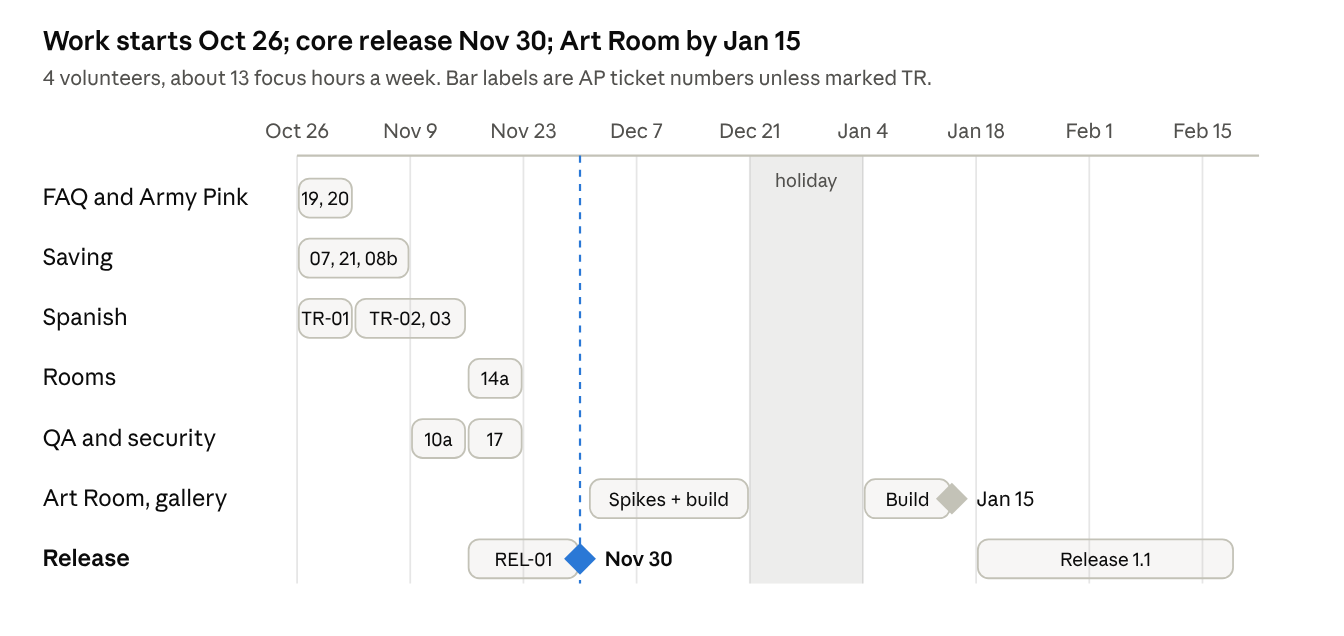
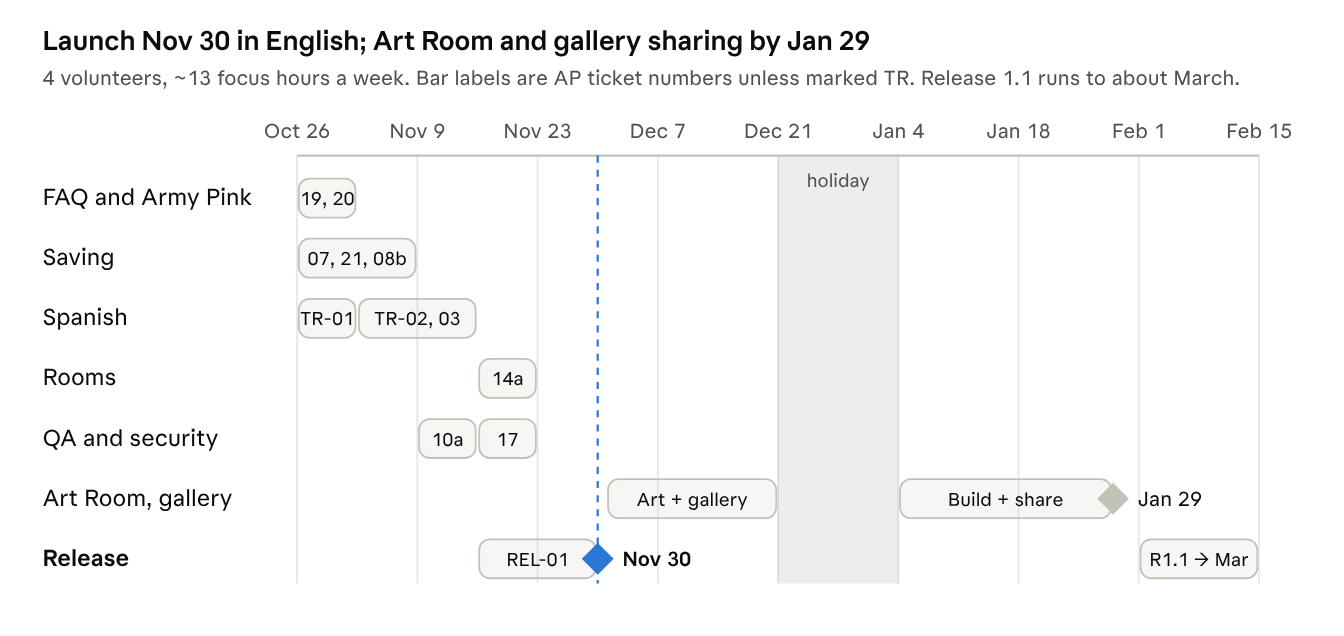
Update technical plan with the founder's decisions of 24 Nov
Launch 30 Nov in English; Art Room and gallery sharing by 29 Jan 2027;
Release 1.1 about March; analytics built; D4 decided; checklists updated.

diff --git a/docs/technical-plan.md b/docs/technical-plan.md
@@ -1,21 +1,27 @@
 # Army Pink Wellness Portal — Technical Plan
 
-_Last updated 26 October 2026. Developers: start with the [Developer Onboarding guide](developer-onboarding.md)._
+_Last updated 24 November 2026. Developers: start with the [Developer Onboarding guide](developer-onboarding.md)._
 
 ## Executive summary
 
 The Wellness Portal is a free, anonymous website that Army Pink is building for survivors of domestic violence. It releases on **30 November 2026**. Visitors can calm down, reflect, learn, find opportunities and create art without creating an account. Anything they choose to save stays on their own device.
 
-- **Where we are.** The foundation is complete and tested, and 92 automated tests pass. The site builds and runs, and the privacy choice and device-only saving work end to end. Most content is still placeholder text.
-- **How it is built.** The Portal is a static website with no backend server. That one decision removes the biggest privacy risk, a central store of survivors' data, and keeps the project cheap and simple for a volunteer team to run. Section 4 explains why.
-- **What happens next.** Team work starts **this week, Monday 26 October**. Five weeks remain before the 30 November launch, with Thanksgiving week at half capacity.
-- **What the founder's brief adds.** The founder's final brief of 26 October requires a 9-question FAQ, an optional About Army Pink link, consistent privacy wording and readable text files in the download. That is about 11 hours of new work, scheduled before launch. It also asks for sharing to an Anonymous Survivor Art Gallery, which needs a server; see decision D7.
-- **What changed in scope.** The team is 4 volunteer developers giving about 5 hours a week, roughly 13 focused hours in total. That covers about 55 hours before launch. To make room, behind-the-scenes refactoring (moving content to JSON, shared components) and other polish move to **Release 1.1, targeted for 19 February 2027**. Visitors won't notice these changes. The full Art Room stays targeted for 15 January 2027, and the basic canvas ships at launch.
-- **What we need from leadership.**
-  - a decision on gallery sharing (D7) and on the Esc wording (D4)
-  - agreement to launch on 30 November with the deferred items listed in section 9
-  - an owner for real content and for Spanish review
-  - approval of the wording listed in section 11
+- **Where we are (24 November).** The founder's FAQ, saving terms, About Army Pink link, ZIP text files, typed translations and My Saved Items states are merged to `main`. Her decisions of 24 November are in review as PR #59. **Nothing has been deployed to Vercel yet.**
+- **Launch on 30 November, in English.** Spanish is shown as "Coming Soon" until a qualified, fluent Spanish speaker has reviewed it.
+- **What still has to happen before launch:**
+  - merge PR #59
+  - first Vercel deployment and rollback runbook (AP-17)
+  - release checklist with the founder's QA checks (REL-01a)
+  - final check and launch (REL-01b)
+- **Analytics.** Aggregate Vercel Web Analytics is built to the founder's specification and switches on with the first deployment. No cookies, no persistent identifiers, no content.
+- **Gallery sharing.** The founder wants the full Anonymous Survivor Art Gallery. It needs a small server-side service and moderation, about 43 developer hours. It is planned with the full Art Room for **29 January 2027**, if the founder approves the service (D7) by 5 December and names a moderator.
+- **Release 1.1** (behind-the-scenes tidying) moves to about March 2027.
+- **How it is built.** The Portal is a static website with no backend server, which removes the biggest privacy risk: a central store of survivors' data. Section 4 explains why. Gallery sharing will be the only exception, and only for artwork a visitor chooses to share.
+- **What we need from leadership:**
+  - D7 decision by 5 December
+  - a named gallery moderator
+  - a Spanish reviewer
+  - a content owner
 
 ## About this document
 
@@ -72,6 +78,32 @@ The founder's _Final Developer Brief: FAQ, Privacy, Safety & Army Pink Website C
 - **Simulated PIN lock.** The Journals and Toolkit show a pretend PIN lock, labelled "Simulated".
   - _Recommended:_ remove it for launch, since the brief asks for prototype-only features to go.
 
+## Founder's response of 24 November: decisions
+
+The founder answered every open question. Her rule stays the same: safety, privacy and transparency are non-negotiable, and every sentence a visitor reads must match what the Portal really does. The full record, the analytics check and the gallery estimate are in `docs/decisions/founder-response-2026-11-24.md`.
+
+| Topic                       | Founder's decision                                                                           | Status                                                      |
+| --------------------------- | -------------------------------------------------------------------------------------------- | ----------------------------------------------------------- |
+| Esc key (D4)                | Esc activates Quick Exit everywhere, even while typing, drawing or with a pop-up open        | Built in PR #59                                             |
+| Gallery sharing (D7)        | Build the full sharing experience; don't treat it as a future feature                        | Estimated: about 43 h, target 29 Jan 2027 with the Art Room |
+| Analytics                   | Aggregate Vercel Web Analytics and custom events, per the original specification             | Built in PR #59; active once deployed                       |
+| armypink.org                | Make it a clickable link                                                                     | Built in PR #59                                             |
+| Emergency box under the FAQ | Remove it; the hotline is already in FAQ #4 and #8                                           | Built in PR #59                                             |
+| Saving buttons and wording  | Continue Without Saving, Turn Saving Off and the saving text approved                        | Done (AP-21)                                                |
+| Privacy page                | "Nothing is measured today" replaced with an accurate description of aggregate analytics     | Built in PR #59                                             |
+| Simulated PIN screen        | Remove for launch; real PIN protection may come later                                        | Built in PR #59                                             |
+| Spanish                     | Launch in English; Spanish only after review by a qualified, fluent (ideally native) speaker | Built in PR #59 ("ES · pronto")                             |
+| Quick Exit destination      | Keep weather.com                                                                             | No change                                                   |
+| Turning saving off          | Make clear it does not delete saved items                                                    | In place                                                    |
+
+**What analytics collects.** Page views and a fixed list of events: rooms and resources opened, language choice, saves and deletes, Quick Exit use and technical errors.
+
+- **Never collected:** names, contact details, case information, journal entries, artwork, free text, searches or precise location.
+- **How it's enforced:** an allowlist in the code drops anything else, and query strings are stripped from page addresses.
+- **To confirm:**
+  - custom events need the Vercel Pro plan
+  - Vercel's documentation does not say whether IP addresses are stored
+
 ## 1. Where the project stands
 
 The Portal's foundation was finished and tested on 18 October 2026, about two weeks ahead of the original plan. The first version was a clickable prototype made with Lovable, an AI website builder; the code no longer depends on it.
@@ -116,7 +148,7 @@ The Portal is a static React app with no backend: Vercel serves files, and every
 
 ![Architecture as built: static site, browser-only storage](images/architecture.png)
 
-Pages save only through `SaveActions`. The repository validates every record before writing, and the analytics adapter stays a no-op until the event list is approved.
+Pages save only through `SaveActions`. The repository validates every record before writing, and analytics sends only allowlisted, aggregate events, with no content.
 
 | Layer        | Technology                                                      | Location                                |
 | ------------ | --------------------------------------------------------------- | --------------------------------------- |
@@ -150,11 +182,11 @@ The Portal has no server of its own and no database. Vercel delivers the same fi
 
 **The trade-offs.**
 
-| Trade-off                                     | What it means for visitors and staff                                                   | How the plan handles it                                                            |
-| --------------------------------------------- | -------------------------------------------------------------------------------------- | ---------------------------------------------------------------------------------- |
-| Saved items live in one browser on one device | They don't follow the visitor to another device, and clearing browser data erases them | The privacy screen says this plainly; visitors can download a ZIP copy at any time |
-| Content updates need a code change            | Non-technical staff can't edit pages directly                                          | Content is reviewed through GitHub; a content management system can be added later |
-| Analytics are limited                         | Only anonymous, approved events can be counted                                         | Vercel Web Analytics with an allowlist of event names (AP-12), off until approved  |
+| Trade-off                                     | What it means for visitors and staff                                                   | How the plan handles it                                                                              |
+| --------------------------------------------- | -------------------------------------------------------------------------------------- | ---------------------------------------------------------------------------------------------------- |
+| Saved items live in one browser on one device | They don't follow the visitor to another device, and clearing browser data erases them | The privacy screen says this plainly; visitors can download a ZIP copy at any time                   |
+| Content updates need a code change            | Non-technical staff can't edit pages directly                                          | Content is reviewed through GitHub; a content management system can be added later                   |
+| Analytics are limited                         | Only anonymous, approved events can be counted                                         | Vercel Web Analytics with an allowlist of events, approved and built (24 Nov); aggregate counts only |
 
 **When a backend would be added.** Only if leadership approves a feature that truly needs one, and only after a privacy review. Examples:
 
@@ -168,20 +200,20 @@ The plan then favours a small managed service, such as Supabase or Neon behind V
 
 Six decisions were taken on 18 October and are implemented. Changing one needs a new decision record in `docs/decisions/`.
 
-| ID  | Decision                                                                                               | Why                                                                                             | Still open                                                                      |
-| --- | ------------------------------------------------------------------------------------------------------ | ----------------------------------------------------------------------------------------------- | ------------------------------------------------------------------------------- |
-| D1  | Static SPA on Vercel; no server runtime                                                                | No feature needs a server; the simplest security policy; no beta server framework in production | None                                                                            |
-| D2  | Detach from Lovable now                                                                                | Volunteers need a normal Vite setup they can read and debug                                     | Lovable can still be used for throwaway stakeholder mock-ups, outside this repo |
-| D3  | Export as ZIP: readable HTML, JSON manifest, images                                                    | Readable on any device and still machine-readable for a future re-import                        | Check how phones handle the ZIP during QA                                       |
-| D4  | Esc exits except in dialogs, text fields and the canvas                                                | A stray key press must not lose a survivor's writing                                            | Founder approval of the explanatory copy                                        |
-| D5  | Turning saving off asks "Keep my saved items" or "Delete them now"; delete needs a second confirmation | Makes what happens to existing items explicit                                                   | Founder approval of the dialog copy                                             |
-| D6  | Intro skip links say "Skip intro" and lead to the privacy choice                                       | The privacy choice can never be bypassed                                                        | None                                                                            |
+| ID  | Decision                                                                                                                   | Why                                                                                             | Still open                                                                      |
+| --- | -------------------------------------------------------------------------------------------------------------------------- | ----------------------------------------------------------------------------------------------- | ------------------------------------------------------------------------------- |
+| D1  | Static SPA on Vercel; no server runtime                                                                                    | No feature needs a server; the simplest security policy; no beta server framework in production | None                                                                            |
+| D2  | Detach from Lovable now                                                                                                    | Volunteers need a normal Vite setup they can read and debug                                     | Lovable can still be used for throwaway stakeholder mock-ups, outside this repo |
+| D3  | Export as ZIP: readable HTML, JSON manifest, images                                                                        | Readable on any device and still machine-readable for a future re-import                        | Check how phones handle the ZIP during QA                                       |
+| D4  | Esc exits from everywhere, including text fields, the canvas and dialogs (founder, 24 Nov; replaces the earlier exception) | Leaving safely takes priority over every other page function                                    | Decided 24 Nov                                                                  |
+| D5  | Turning saving off asks "Keep my saved items" or "Delete them now"; delete needs a second confirmation                     | Makes what happens to existing items explicit                                                   | Wording approved 24 Nov                                                         |
+| D6  | Intro skip links say "Skip intro" and lead to the privacy choice                                                           | The privacy choice can never be bypassed                                                        | None                                                                            |
 
-**Proposed on 26 October, awaiting the founder:** D7, gallery sharing through one small managed service after launch. It is the only feature that would send anything off the device. See "Founder's brief of 26 October" above.
+**D7, gallery sharing (in progress).** The founder wants sharing to the Anonymous Survivor Art Gallery built, not dropped. It will be the only feature that sends anything off the device, and only artwork the visitor chooses to share. Proposed: one small managed service, image only, human moderation, a clear consent step and success or failure feedback. The service choice needs her sign-off by 5 December.
 
 ## 6. Spanish translation
 
-Goal for 30 November: every interface string is available in Spanish, and no survivor-facing guidance appears in Spanish until a reviewer approves it. Translation is done by people. Machine translation may only be used to make a first draft, and that draft is always reviewed.
+Founder decision (24 November): the Portal launches in English, with Spanish shown as "Coming Soon". Spanish is switched on only after a qualified, fluent (ideally native) speaker familiar with survivor-support terms has reviewed it. The design below is ready for that moment. Translation is done by people. Machine translation may only be used to make a first draft, and that draft is always reviewed.
 
 **Where it starts.** The prototype has two lookups. `useT()` reads a small keyed dictionary, and `useTx()` uses the English sentence itself as the key into a draft `es.ts`. Using the sentence as the key breaks silently: if someone edits the English, the Spanish disappears. That happened to the intro's Quick Exit line. There is no review status, and nothing reports missing strings.
 
@@ -250,24 +282,24 @@ The founder's brief adds 11 hours of required work, bringing the pre-launch plan
 
 ## 8. Schedule
 
-Team work starts on 26 October, and the core Portal releases on 30 November in English and Spanish. The full Art Room is a separate milestone targeting 15 January 2027. Release 1.1, the behind-the-scenes tidying deferred to make room for the founder's brief, follows by 19 February 2027.
+The core Portal launches on 30 November in English. The full Art Room and gallery sharing follow together, targeting 29 January 2027. Release 1.1, the behind-the-scenes tidying, follows in about March 2027.
 
-![Schedule from 26 Oct: core release 30 Nov, full Art Room by 15 Jan 2027, Release 1.1 by 19 Feb 2027](images/schedule-timeline.png)
+![Schedule: launch 30 Nov in English; Art Room and gallery sharing by 29 Jan 2027; Release 1.1 about March](images/schedule-timeline.png)
 
 Phases run as parallel workstreams rather than in sequence. Week 5 holds only stabilization because of Thanksgiving. At launch the Art Room ships its current three-stage canvas, labelled as an early version, and gallery sharing says it is not available yet.
 
-| Phase                                       | Original dates         | Revised dates (26 Oct)                                     | State           |
-| ------------------------------------------- | ---------------------- | ---------------------------------------------------------- | --------------- |
-| 0 Audit and alignment                       | 19–23 Oct              | 18 Oct; founder's brief reviewed 26 Oct                    | Done            |
-| 1 Shared foundation                         | 26–30 Oct              | 18 Oct                                                     | Done            |
-| 2 Saving MVP                                | 2–6 Nov                | 18 Oct; polish and brief changes in W1–W2                  | Mostly done     |
-| FAQ, About Army Pink, privacy wording (new) | Not planned            | W1–W2                                                      | Planned         |
-| Spanish translation (new)                   | Not planned            | W1–W3                                                      | Planned         |
-| 3 Core experiences                          | 9–13 Nov               | W4 (Recovery Rooms); content refactor moved to Release 1.1 | Planned         |
-| 5 Testing, security, release readiness      | 23–25 Nov              | W3–W4                                                      | Partly in place |
-| 6 Stabilization and release                 | 26–30 Nov              | W5, release 30 Nov                                         | Planned         |
-| Art Room full build and gallery spike       | 23–25 Nov, if feasible | 1 Dec–15 Jan, with a holiday break                         | Moved           |
-| Release 1.1                                 | Not planned            | By 19 Feb 2027                                             | Planned         |
+| Phase                                       | Original dates         | Revised dates (26 Oct)                                        | State           |
+| ------------------------------------------- | ---------------------- | ------------------------------------------------------------- | --------------- |
+| 0 Audit and alignment                       | 19–23 Oct              | 18 Oct; founder's brief reviewed 26 Oct                       | Done            |
+| 1 Shared foundation                         | 26–30 Oct              | 18 Oct                                                        | Done            |
+| 2 Saving MVP                                | 2–6 Nov                | 18 Oct; polish and brief changes in W1–W2                     | Mostly done     |
+| FAQ, About Army Pink, privacy wording (new) | Not planned            | W1–W2                                                         | Planned         |
+| Spanish translation (new)                   | Not planned            | W1–W3                                                         | Planned         |
+| 3 Core experiences                          | 9–13 Nov               | W4 (Recovery Rooms); content refactor moved to Release 1.1    | Planned         |
+| 5 Testing, security, release readiness      | 23–25 Nov              | W3–W4                                                         | Partly in place |
+| 6 Stabilization and release                 | 26–30 Nov              | W5, release 30 Nov                                            | Planned         |
+| Art Room full build and gallery spike       | 23–25 Nov, if feasible | 1 Dec–29 Jan with gallery sharing, holiday break 21 Dec–3 Jan | Moved           |
+| Release 1.1                                 | Not planned            | About March 2027                                              | Planned         |
 
 ## 9. Work backlog
 
@@ -291,7 +323,7 @@ Release scope is 55 developer hours in tickets of 5 hours or less, about 13 hour
 | W4   | REL-01a        | Release checklist, including the founder's QA checklist | All           | 3     | All above  | All 13 founder checks listed with how each is verified                                                                            |
 | W5   | REL-01b        | Stabilization, manual Spanish check and launch          | All           | 5     | REL-01a    | Founder acceptance; release deployed 30 Nov                                                                                       |
 
-**Deferred to Release 1.1 (target 19 February 2027).** These 57 hours are work the launch can do without. Most of it is behind-the-scenes tidying that visitors would not notice, and existing tests already cover the main flows. It is scheduled after the Art Room work.
+**Deferred to Release 1.1 (about March 2027).** These 52 hours are work the launch can do without, mostly behind-the-scenes tidying that visitors would not notice. AP-12 (analytics) is no longer here: it was built on 24 November. They follow the Art Room and gallery work.
 
 | ID       | Ticket                                                                             | Hours | Why it can wait                                                             |
 | -------- | ---------------------------------------------------------------------------------- | ----- | --------------------------------------------------------------------------- |
@@ -299,14 +331,26 @@ Release scope is 55 developer hours in tickets of 5 hours or less, about 13 hour
 | AP-14b   | Calm Room and Journals on shared components                                        | 4     | Both pages already work and save correctly                                  |
 | TR-05    | Automated Spanish layout checks                                                    | 4     | Replaced by a manual Spanish check in REL-01b                               |
 | AP-09    | Remaining security items (dependency pruning, audit)                               | 4     | Strict CSP and headers already in place                                     |
-| AP-12    | Analytics allowlist adapter                                                        | 5     | Analytics stays off until the event list is approved anyway                 |
+| AP-12    | Analytics allowlist adapter                                                        | 5     | Done 24 Nov (PR #59)                                                        |
 | TR-04    | Translator CSV export/import                                                       | 5     | Reviewers can work from the files with a developer's help                   |
 | TR-07    | Spanish fields in content JSON                                                     | 6     | Needs AP-13; content shows in English with a notice until then              |
 | AP-14c   | Decision Support and Toolkit cleanup                                               | 4     | Both pages already work and save correctly                                  |
 | AP-10b   | Browser tests per room                                                             | 3     | The main save flows are already tested                                      |
 | AP-18a/b | Art Room feasibility spike                                                         | 6     | Moves with the Art Room milestone                                           |
 
-**After launch.** December starts with the gallery sharing spike (AP-22 **new**, 4 h) and the Art Room spike (6 h), then the full Art Room build (AP-16, about 30 h). With a holiday break from 21 December to 3 January, the Art Room target stays **15 January 2027**. Gallery sharing is built only after the founder decides D7, with its own estimate from the spike. The other Release 1.1 items follow by 19 February 2027.
+**After launch: Art Room and gallery sharing, target 29 January 2027.** About 79 hours, roughly 6 weeks at 13 hours a week, with a holiday break from 21 December to 3 January.
+
+- Art Room spike (6 h) and full build (AP-16, about 30 h)
+- Gallery sharing (about 43 h):
+  - submission service with privacy safeguards (10 h)
+  - staff moderation screen with sign-in (10 h)
+  - public gallery of approved art (4 h)
+  - consent and feedback in the Art Room (6 h)
+  - security and tests (8 h)
+  - service choice and privacy review (4 h)
+  - wording (1 h)
+
+The target depends on the founder approving D7 by 5 December and naming a moderator.
 
 Week dates (revised 26 October): W1 26 Oct–1 Nov, W2 2–8 Nov, W3 9–15 Nov, W4 16–22 Nov, W5 23–29 Nov (half week).
 
@@ -347,24 +391,28 @@ This is the backlog as plain to-dos. Tick each box when its pull request is merg
 
 **W5 · 23–29 Nov (half week)**
 
-- [ ] **REL-01b** Fix last bugs, check every page in Spanish by hand, get founder sign-off and deploy on 30 November (5 h)
+- [ ] **REL-01b** Fix last bugs, check live analytics requests, get founder sign-off and deploy on 30 November (5 h)
 
 **Founder and leadership, before launch**
 
-- [ ] Decide D4: keep Esc ignored while typing and add "when you aren't typing" to FAQ #3, or make Esc always exit (by W1)
-- [ ] Decide D7: gallery sharing through a small managed service after launch (by W4)
-- [ ] Decide whether the simulated PIN lock is removed for launch (by W2)
-- [ ] Approve the wording in `docs/decisions/copy-pending-approval.md`, including interim FAQ #5 (by W3)
-- [ ] Choose the Quick Exit destination site (by W3)
-- [ ] Name an owner for real content and for Spanish review (by W1)
-- [ ] Agree that the Release 1.1 items can follow after launch (by W1)
+- [x] Decide D4: Esc works everywhere (decided 24 Nov)
+- [ ] Decide D7: service for gallery sharing (by 5 Dec)
+- [ ] Name a gallery moderator (by 5 Dec)
+- [x] Remove the simulated PIN lock for launch (decided 24 Nov)
+- [x] Approve the saving and privacy wording (24 Nov)
+- [x] Quick Exit destination: keep weather.com (24 Nov)
+- [ ] Name a qualified, fluent Spanish reviewer (TR-06)
+- [ ] Name an owner for real content
+- [ ] Choose the Vercel plan: Pro is needed for custom analytics events
 
 **After launch**
 
 - [ ] **AP-22** Gallery sharing spike: service, cost, privacy review, moderation and estimate (early December)
 - [ ] **AP-18a/b** Art Room spike: choose the drawing approach and split the build into 5-hour tickets (early December)
-- [ ] **AP-16** Build the full Art Room experience (December to 15 January 2027)
-- [ ] **Release 1.1**: AP-13a–d, AP-14b, TR-05, AP-09, AP-12, TR-04, TR-07, AP-14c, AP-10b (by 19 February 2027)
+- [ ] **AP-16** Build the full Art Room experience
+- [ ] **Gallery sharing**: submission service, moderation, public gallery, consent flow (with AP-16, by 29 January 2027)
+- [ ] **TR-06 then Spanish on**: native-speaker review, then set `SPANISH_ENABLED` to true
+- [ ] **Release 1.1**: AP-13a–d, AP-14b, TR-05, AP-09, TR-04, TR-07, AP-14c, AP-10b (about March 2027)
 
 ## 10. Release criteria
 
@@ -411,7 +459,7 @@ The biggest risk is capacity. With 4 volunteers, the 5-hour buffer is used up if
 | Risk                                                     | Effect                                   | Response                                                                                                                                   |
 | -------------------------------------------------------- | ---------------------------------------- | ------------------------------------------------------------------------------------------------------------------------------------------ |
 | A volunteer leaves or gives less than 5 h a week         | Release scope does not fit               | Next cuts, in order: AP-14a (Recovery Rooms keep their current layout), then AP-07b (basic empty state only), or move launch to 7 December |
-| Spanish reviewers not found by W4                        | Sensitive content stays English-only     | Acceptable at launch: the notice explains it; general UI still ships in draft Spanish                                                      |
+| Spanish reviewers not found by W4                        | Sensitive content stays English-only     | Launch is English-only by the founder's decision; Spanish shows as Coming Soon until reviewed                                              |
 | Real content (Library, Opportunities) not supplied by W3 | Release ships with labelled placeholders | Content owner named in W1; placeholders keep their status tags                                                                             |
 | Art Room estimate grows after the spike                  | January milestone slips                  | Ship the current three-stage canvas at launch, clearly labelled                                                                            |
 | Reviews pile up                                          | Work sits finished but unmerged          | Reviews answered within 3 days; any member may review                                                                                      |
@@ -419,19 +467,19 @@ The biggest risk is capacity. With 4 volunteers, the 5-hour buffer is used up if
 
 **Approvals needed from the founder.** These are listed in `docs/decisions/copy-pending-approval.md`.
 
-- [ ] D5 keep-or-delete dialog copy
-- [ ] Esc explanation in the intro, FAQ, privacy page and footer
-- [ ] Quick Exit destination (currently weather.com)
-- [ ] FAQ answers
-- [ ] Draft Spanish for the intro, before it is marked reviewed
-- [ ] Analytics Event Dictionary, before AP-12 can be switched on
+- [x] D5 keep-or-delete dialog copy (24 Nov)
+- [x] Esc explanation in the intro, FAQ, privacy page and footer (24 Nov)
+- [x] Quick Exit destination: weather.com (24 Nov)
+- [x] FAQ answers (26 Oct brief and 24 Nov)
+- [x] Spanish intro: held for native-speaker review (24 Nov)
+- [x] Analytics event list: the founder's original specification (24 Nov)
 
 **New from the founder's brief (26 October)**, also listed in "Founder's brief of 26 October":
 
-- [ ] D4: Esc wording in FAQ #3, or Esc always exits
-- [ ] D7: gallery sharing through a small managed service after launch
-- [ ] Interim FAQ #5 wording while gallery sharing is not available
-- [ ] Remove the simulated PIN lock for launch
+- [x] D4: Esc works everywhere (24 Nov)
+- [ ] D7: gallery sharing service (by 5 Dec)
+- [x] FAQ #5 keeps today's accurate wording until sharing works (24 Nov)
+- [x] Remove the simulated PIN lock for launch (24 Nov)
 
 **Open questions.**
 
